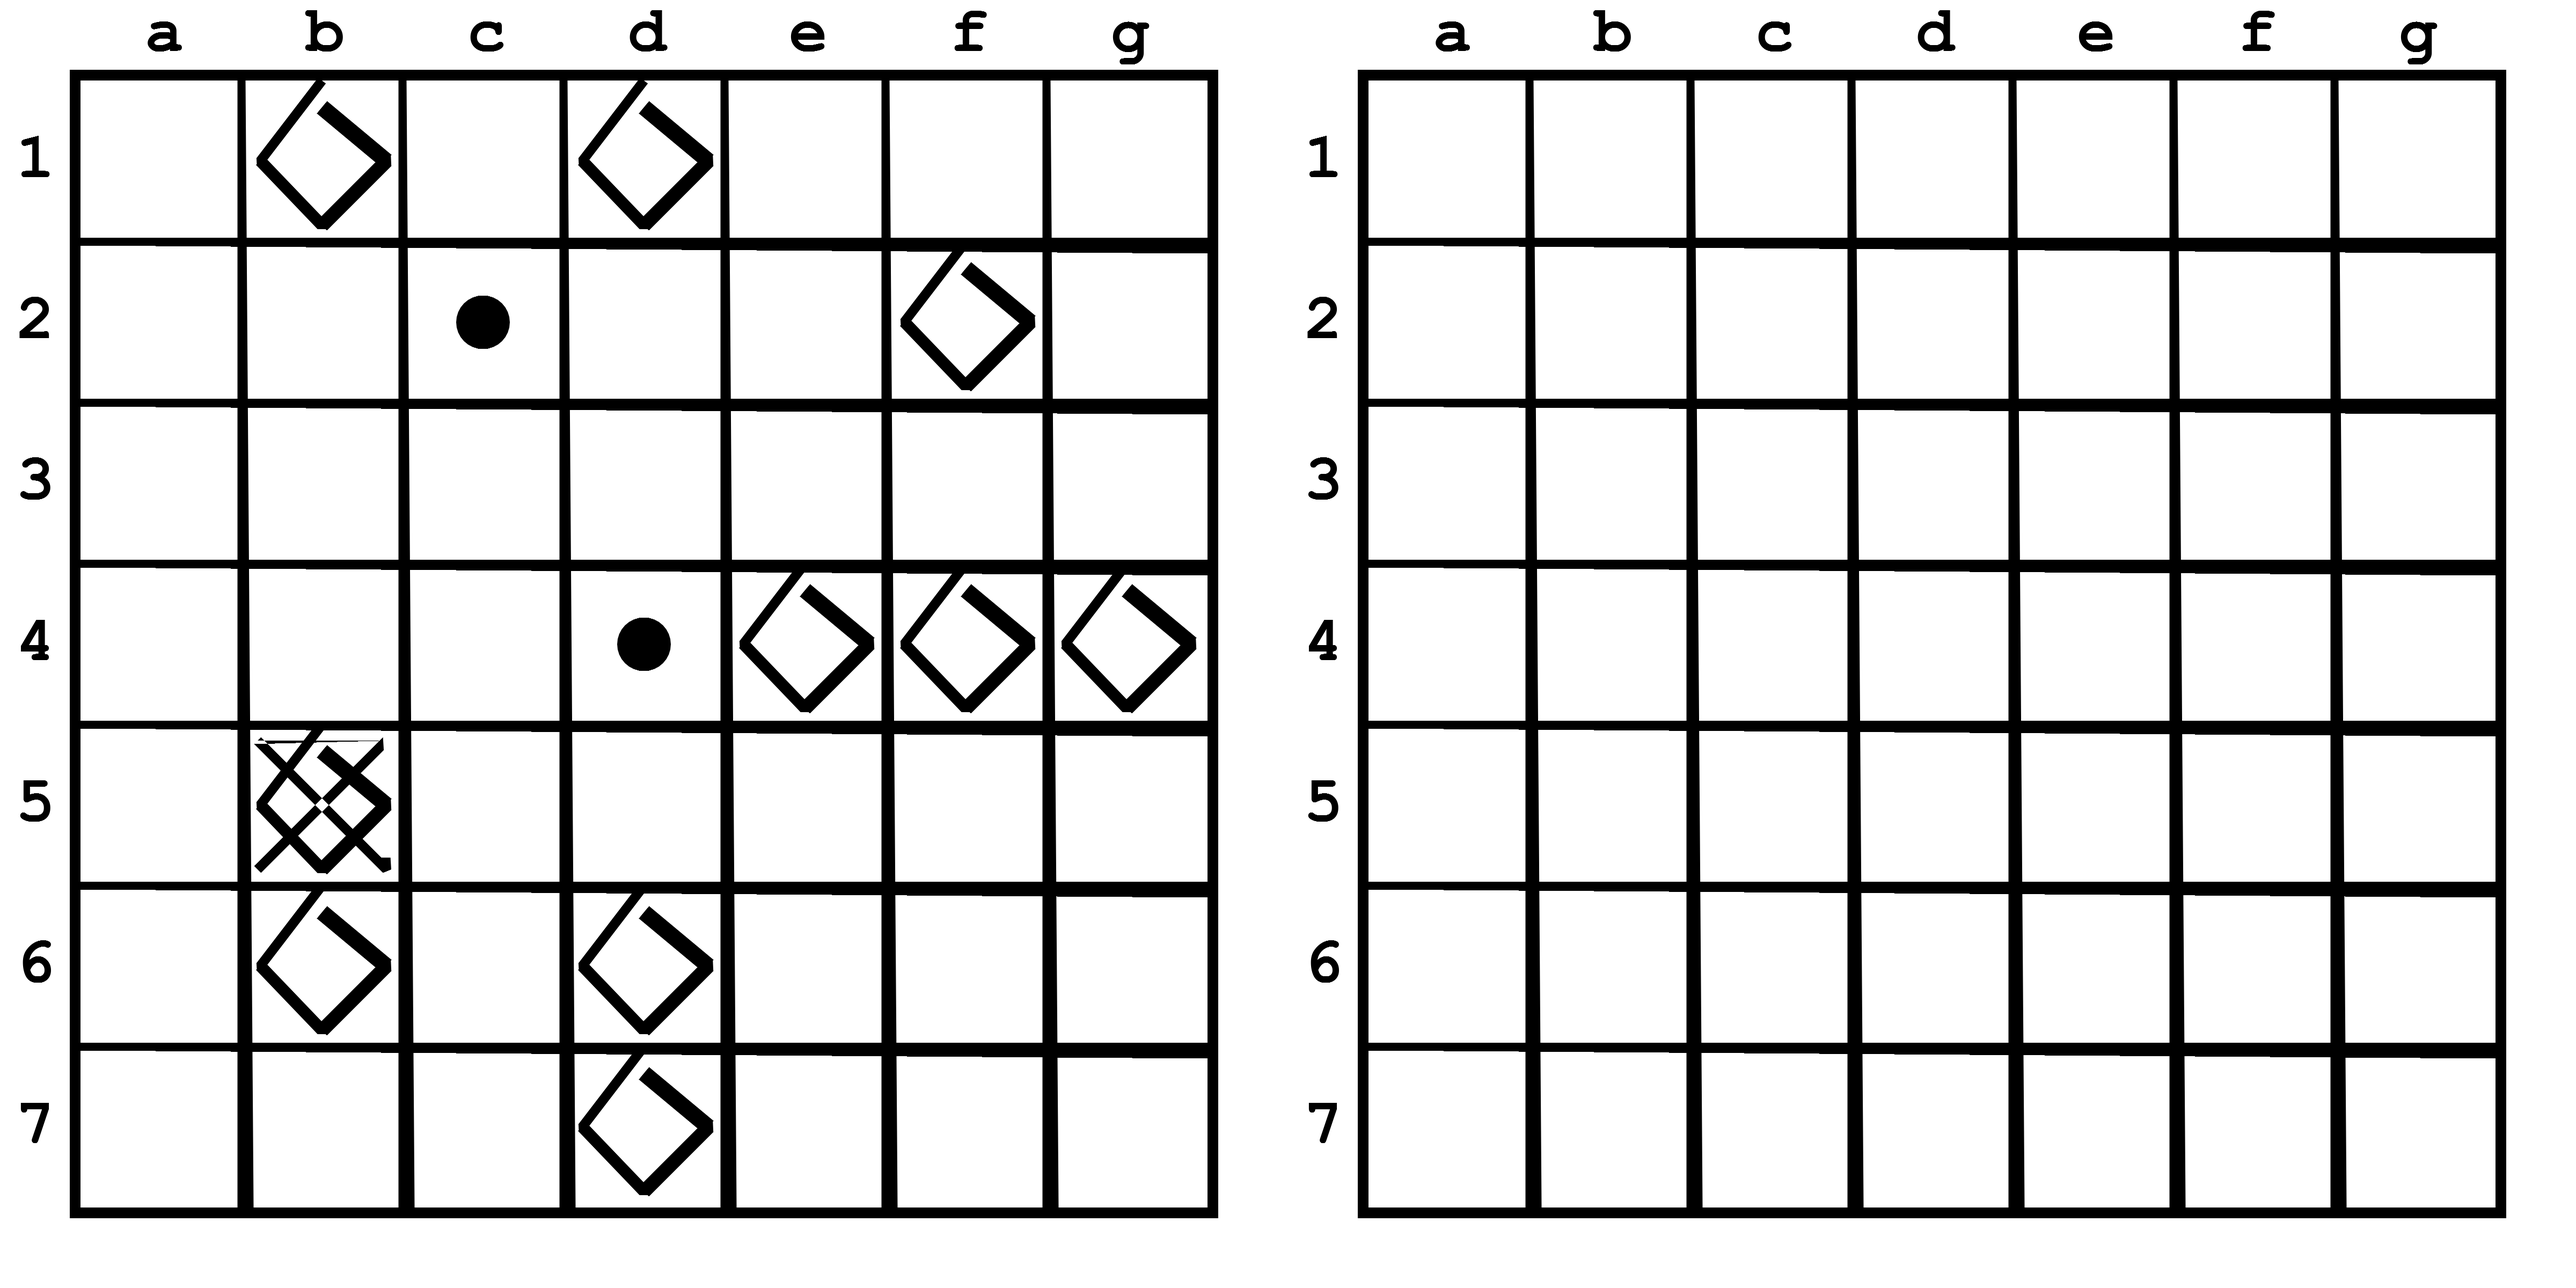
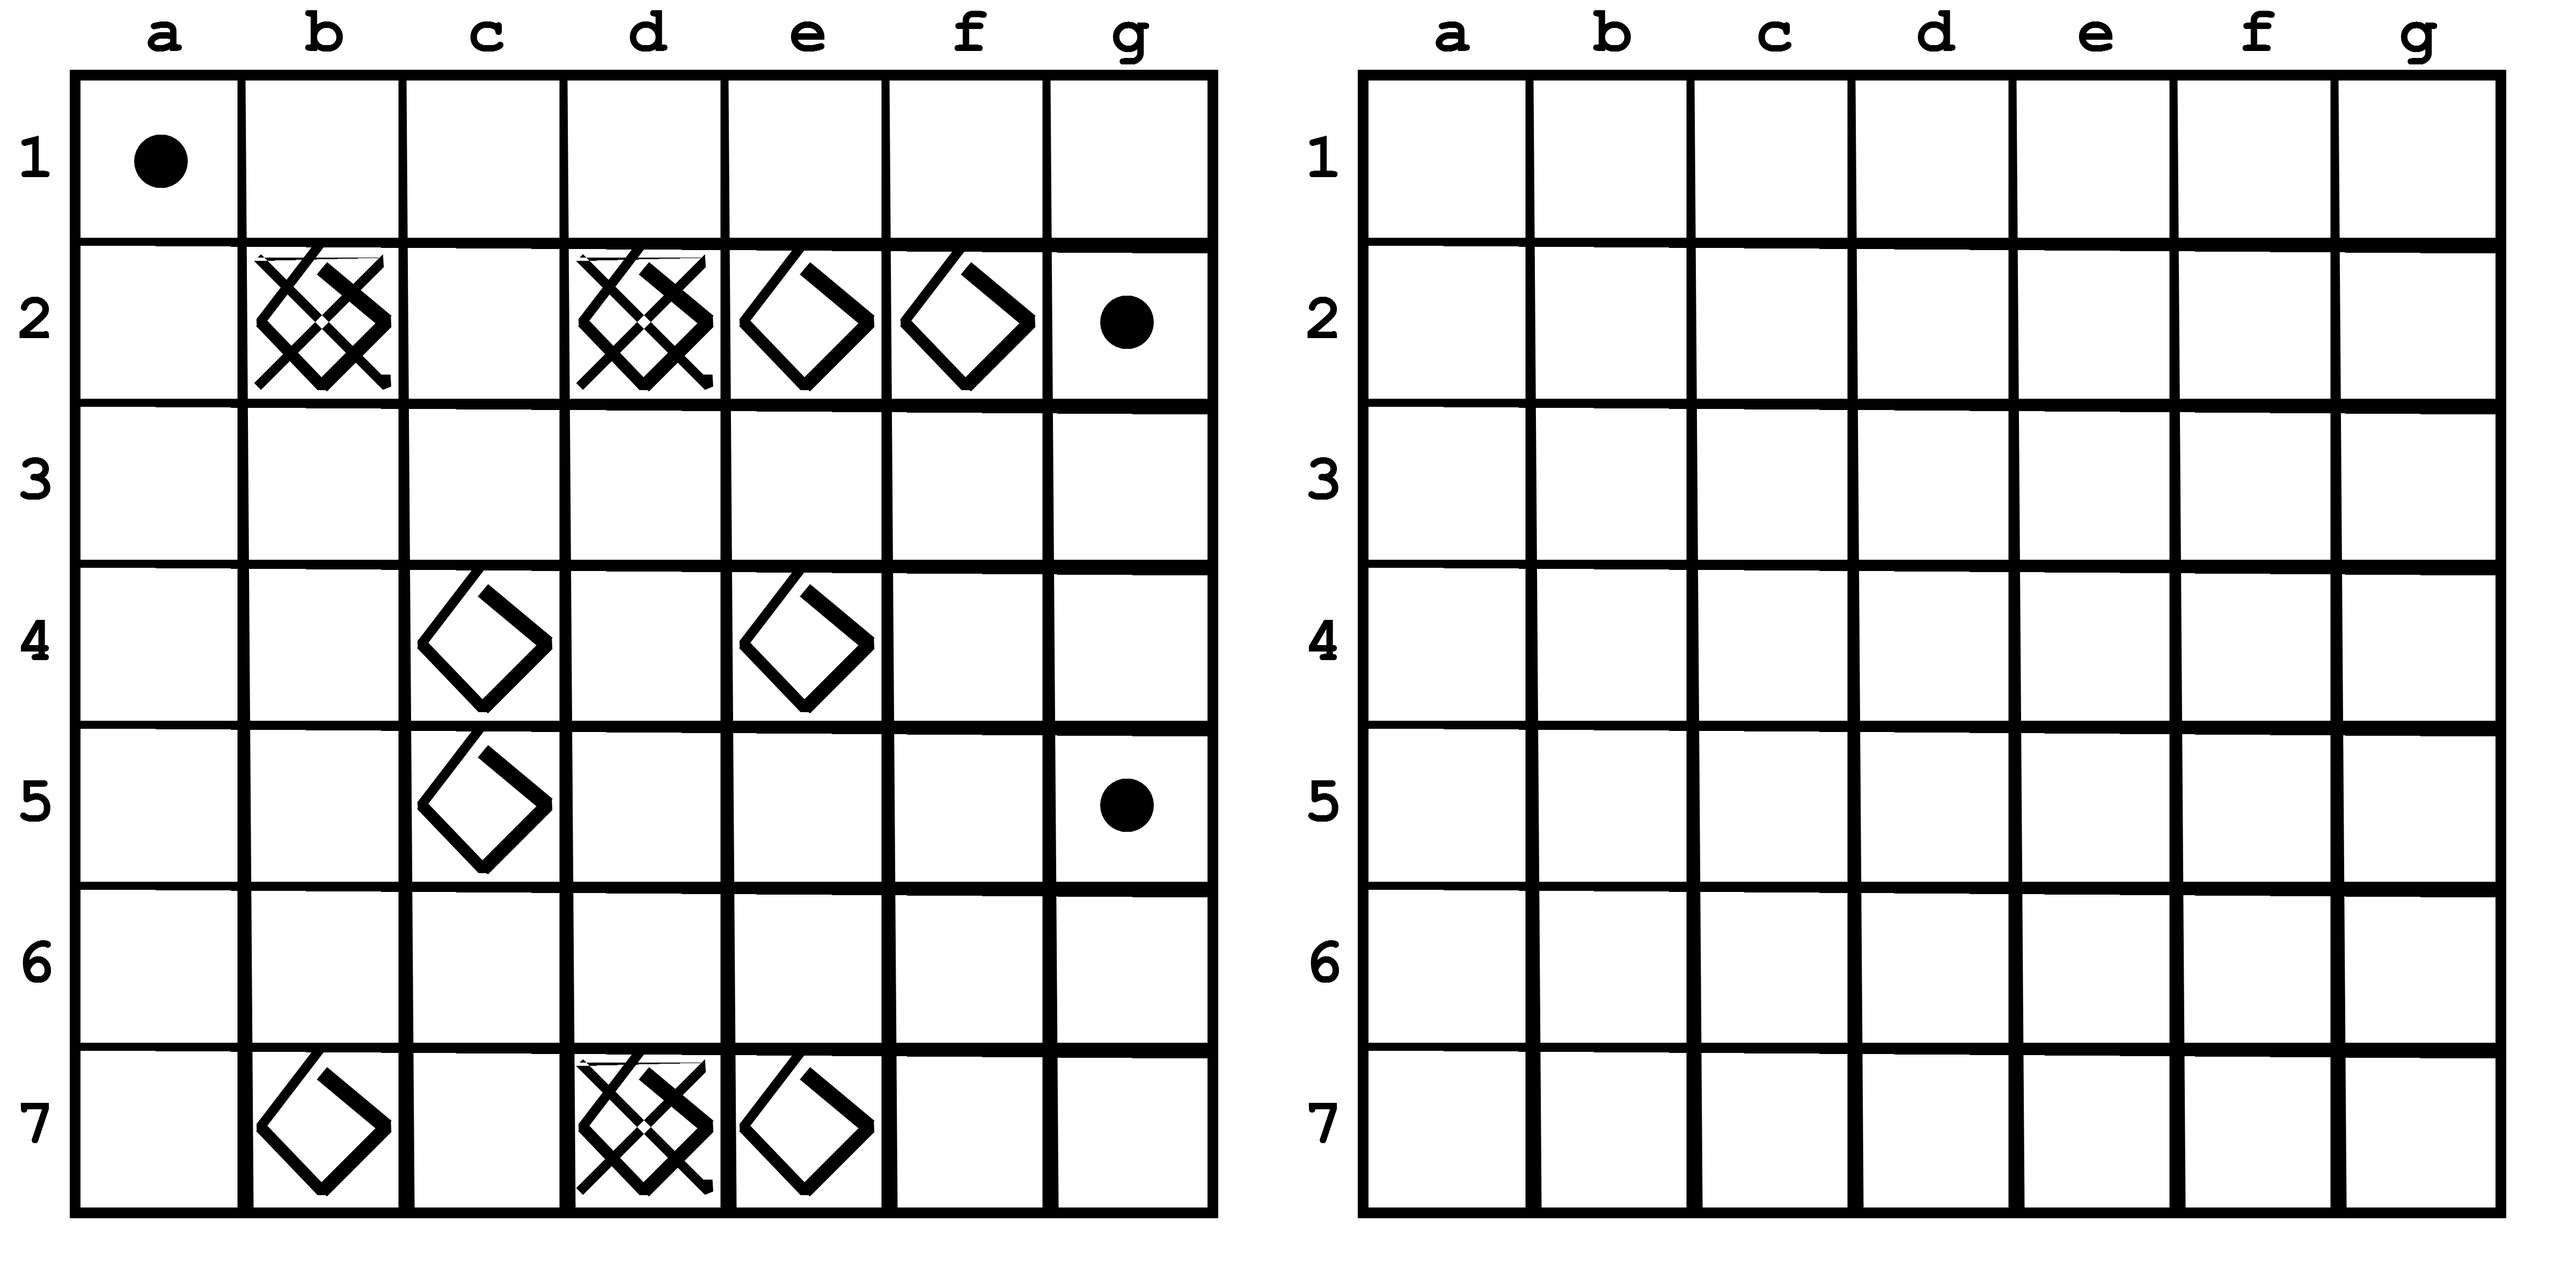
Change the function of the loop, shot and game
Moved the callback query listener from the loop function to the game
function because the loop function is called more than once and so the
listeners multiply, which is wrong. Added game object fill in game
function. Added shots of successful and unsuccessful shots as a
function of the shot.

diff --git a/lib/game.js b/lib/game.js
@@ -128,12 +128,15 @@ function shot(row, col, game, bot, user) {
   const field = game.user1.field;
   if ([1, 2, 3].includes(field[row][col])) {
     console.log('Good shot');
-    drawingGoodShot(sendPicture.bind(null, bot, user), row, col, ctx, img);
+    drawingGoodShot(sendPicture.bind(null, bot, user), row, col, ctx, img)
+      .then(() => loop(bot, game));
     field[row][col] = 5;
   } else {
     console.log('Bad shot');
-    drawingBadShot(sendPicture.bind(null, bot, user), row, col, ctx, img);
+    drawingBadShot(sendPicture.bind(null, bot, user), row, col, ctx, img)
+      .then(() => loop(bot, game));
     field[row][col] = 6;
+    game.queue = (user === game.user1.chatId) ? game.user2 : game.user1;
   }
 }
 
@@ -159,20 +162,20 @@ function startGameCheck(user1, user2) {
   return (state.playing.includes(user1) || state.playing.includes(user2));
 }
 
-function game(user1, user2, bot) {
-  if (startGameCheck(user1, user2)) {
+function game(userr1, userr2, bot) {
+  if (startGameCheck(userr1, userr2)) {
     return;
   }
 
-  state.playing.push(user1, user2);
+  state.playing.push(userr1, userr2);
   const game = {
     user1: {
-      chatId: null,
+      chatId: userr1,
       field: [],
       board: {}
     },
     user2: {
-      chatId: null,
+      chatId: userr2,
       field: [],
       board: {}
     },
@@ -180,62 +183,113 @@ function game(user1, user2, bot) {
     gameOver: false
   };
 
-  game.queue = 1;
-  const { img, ctx } = newBoard();
+  const array = newBoard();
+  const img1 = array[0];
+  const ctx1 = array[1];
   game.user1.field = fillFieldShips();
-  game.user1.board.img = img;
-  game.user1.board.ctx = ctx;
-  const field1 = game.user1.field;
-  drawingGameBoard(null, ctx, img)
-    .then(() => placeAllShips(sendPicture.bind(null, bot, user1),
-      ctx, img, field1))
-    .then(() => loop(bot, user1, user2, game));
-}
+  game.user1.board.img = img1;
+  game.user1.board.ctx = ctx1;
 
-function loop(bot, user1, user2, game) {
+  // const { img2, ctx2 } = newBoard();
+  game.user2.field = fillFieldShips();
+  // game.user2.board.img = img2;
+  // game.user2.board.ctx = ctx2;
+
+  game.queue = game.user1;
+  const field = game.queue.field;
+  drawingGameBoard(null, ctx1, img1)
+    .then(() => placeAllShips(sendPicture.bind(null, bot, userr1),
+      ctx1, img1, field))
+    .then(() => loop(bot, game));
 
   bot.on('callback_query', (query) => {
-    const chatIdUser1 = query.data.slice(2, 12);
-    const chatIdUser2 = query.data.slice(12, 22);
-    if (['a', 'b', 'c', 'd', 'e', 'f', 'g'].includes(query.data[0])) {
-      bot.sendMessage(chatIdUser1, query.data.slice(0, 2));
+    const chatIdCurrentUser = query.data.slice(2, 12);
+
+    if ([1, 2, 3, 4, 5, 6, 7].includes(Number(query.data[0])) &&
+    chatIdCurrentUser === game.queue.chatId) {
+      const user = chatIdCurrentUser;
+      bot.sendMessage(user, 'Добре, тепер вертикаль', {
+        reply_markup: {
+          inline_keyboard: [
+            [
+              {
+                text: 'a',
+                callback_data: `a${query.data[0]}` + user
+              },
+              {
+                text: 'b',
+                callback_data: `b${query.data[0]}` + user
+              },
+              {
+                text: 'c',
+                callback_data: `c${query.data[0]}` + user
+              },
+              {
+                text: 'd',
+                callback_data: `d${query.data[0]}` + user
+              },
+              {
+                text: 'e',
+                callback_data: `e${query.data[0]}` + user
+              },
+              {
+                text: 'f',
+                callback_data: `f${query.data[0]}` + user
+              },
+              {
+                text: 'g',
+                callback_data: `g${query.data[0]}` + user
+              },
+            ]
+          ]
+        }
+      });
+    }
+
+    if (['a', 'b', 'c', 'd', 'e', 'f', 'g'].includes(query.data[0]) &&
+    chatIdCurrentUser === game.queue.chatId) {
+      const user = chatIdCurrentUser;
+      bot.sendMessage(user, query.data.slice(0, 2));
       const row = query.data[0];
       const col = Number(query.data[1]);
-      shot(row, col, game, bot, user1);
+      shot(row, col, game, bot, user);
     }
   });
+}
 
-  bot.sendMessage(user1, 'Ваш хід, обирайте горизонталь', {
+function loop(bot, game) {
+  const user = game.queue.chatId;
+  bot.sendMessage(user, 'Ваш хід, обирайте горизонталь', {
     reply_markup: {
       inline_keyboard: [
         [
           {
             text: '1',
-            callback_data: 10 + user1
+            callback_data: 10 + user
           },
           {
             text: '2',
-            callback_data: 20 + user1
+            callback_data: 20 + user
           },
           {
             text: '3',
-            callback_data: 30 + user1
+            callback_data: 30 + user
           },
           {
             text: '4',
-            callback_data: 40 + user1
+            callback_data: 40 + user
           },
           {
             text: '5',
-            callback_data: 50 + user1
+            callback_data: 50 + user
           },
           {
             text: '6',
-            callback_data: 60 + user1
+            callback_data: 60 + user
           },
           {
             text: '7',
-            callback_data: 70 + user1
+            callback_data: 70 + user
           },
         ]
       ]

diff --git a/main.js b/main.js
@@ -65,45 +65,6 @@ bot.on('callback_query', (query) => {
   const chatIdUser1 = query.data.slice(2, 12);
   const chatIdUser2 = query.data.slice(12, 22);
 
-  if ([1, 2, 3, 4, 5, 6, 7].includes(Number(query.data[0]))) {
-    bot.sendMessage(chatIdUser1, 'Добре, тепер вертикаль', {
-      reply_markup: {
-        inline_keyboard: [
-          [
-            {
-              text: 'a',
-              callback_data: `a${query.data[0]}` + chatIdUser1
-            },
-            {
-              text: 'b',
-              callback_data: `b${query.data[0]}` + chatIdUser1
-            },
-            {
-              text: 'c',
-              callback_data: `c${query.data[0]}` + chatIdUser1
-            },
-            {
-              text: 'd',
-              callback_data: `d${query.data[0]}` + chatIdUser1
-            },
-            {
-              text: 'e',
-              callback_data: `e${query.data[0]}` + chatIdUser1
-            },
-            {
-              text: 'f',
-              callback_data: `f${query.data[0]}` + chatIdUser1
-            },
-            {
-              text: 'g',
-              callback_data: `g${query.data[0]}` + chatIdUser1
-            },
-          ]
-        ]
-      }
-    });
-  }
-
   if (query.data[0] === 'y') {
     bot.sendMessage(chatIdUser1, 'Виклик прийнято!');
     game(chatIdUser1, chatIdUser2, bot);

diff --git a/lib/drawing.js b/lib/drawing.js
@@ -9,7 +9,7 @@ function newBoard() {
   ctx.strokeStyle = 'black';
   ctx.fillStyle = '#000000';
   ctx.lineWidth = 15;
-  return { img, ctx };
+  return [img, ctx];
 }
 
 function col(ctx, i, n) {
